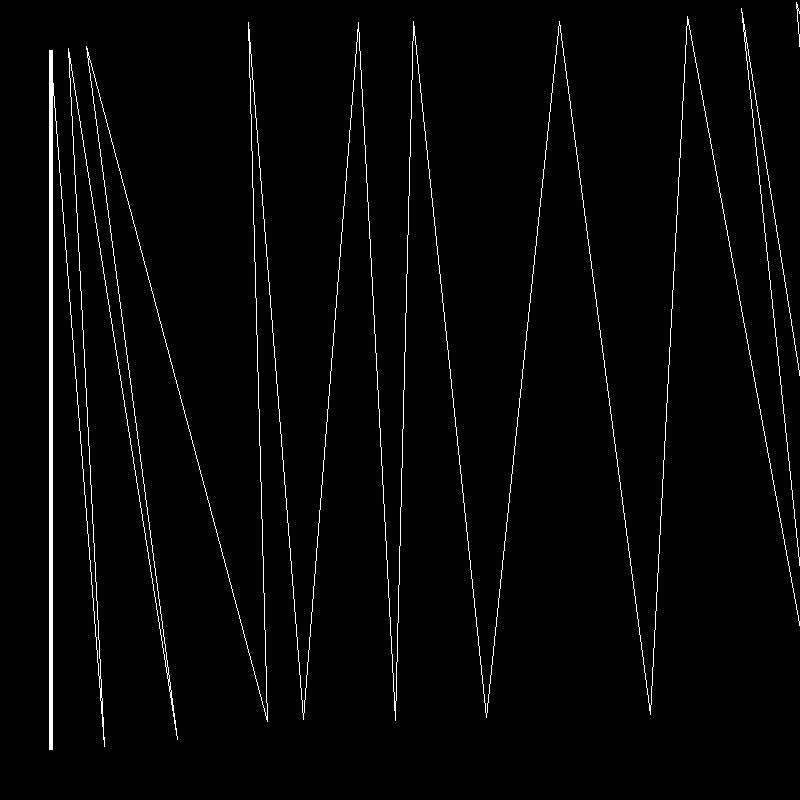
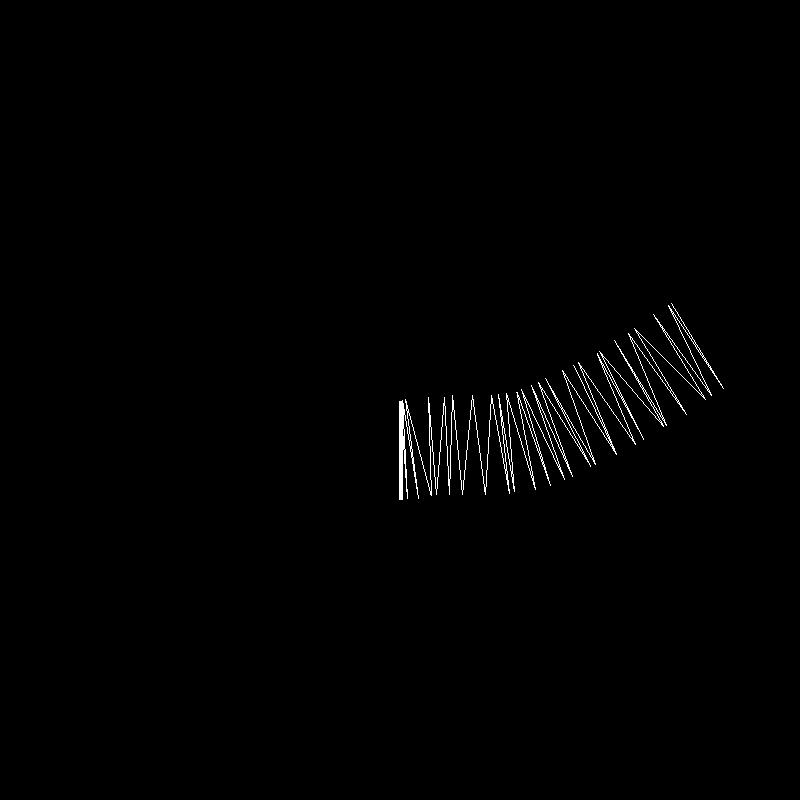
commit

Changed region(s): [[0.5, 0.4062, 0.875, 0.625], [0.0625, 0.0625, 0.0938, 0.9375], [0.875, 0.4688, 0.9062, 0.5]]

diff --git a/Terminal/pi_streap-teasing.py b/Terminal/pi_streap-teasing.py
@@ -1,0 +1,42 @@
+from PIL import Image, ImageDraw
+import transgeo as tg
+
+
+class Segment:
+    def __init__(self, pt1, pt2):
+        self.pt1 = pt1
+        self.pt2 = pt2
+
+    def rotation(self, angle, pt):
+        pt1 = tg.rotation(self.pt1, angle, pt)
+        pt2 = tg.rotation(self.pt2, angle, pt)
+        return Segment(pt1, pt2)
+
+    def trace(self, ctx, **kwargs):
+        ctx.line([self.pt1, self.pt2], **kwargs)
+        pt3 = tg.homothetie(self.pt1, self.pt2, 3)
+        pt4 = tg.homothetie(self.pt2, self.pt1, 3)
+        ctx.line([self.pt1, pt3], width= 10, fill="black")
+        ctx.line([self.pt2, pt4], width= 10, fill="black")
+
+pi = "31415926535897932384626433832795028841971693993751"
+angle_deg = -1.5
+W = H = 800
+img = Image.new("RGB", (W, H), "black")
+calque = ImageDraw.Draw(img)
+marge = 50
+
+s = Segment((W//2, H//2), (W//2, H//2 + 100))
+s.trace(calque, width=4, fill= "white")
+
+for i in range(len(pi)):
+    if i % 2 == 0:
+        pt = s.pt1
+        ang = angle_deg * int(pi[i])
+    else:
+        pt = s.pt2
+        ang = - angle_deg * int(pi[i])
+    s = s.rotation(ang, pt)
+    s.trace(calque)
+
+img.save(f"pi_piquant_{abs(angle_deg)}.jpg")

diff --git a/rendu_monnaie.py b/rendu_monnaie.py
@@ -1,0 +1,1 @@
+``
